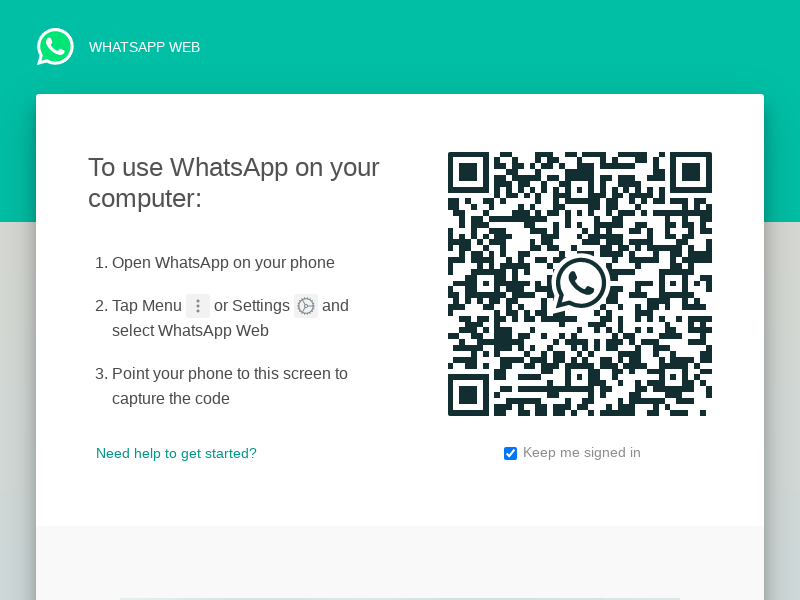
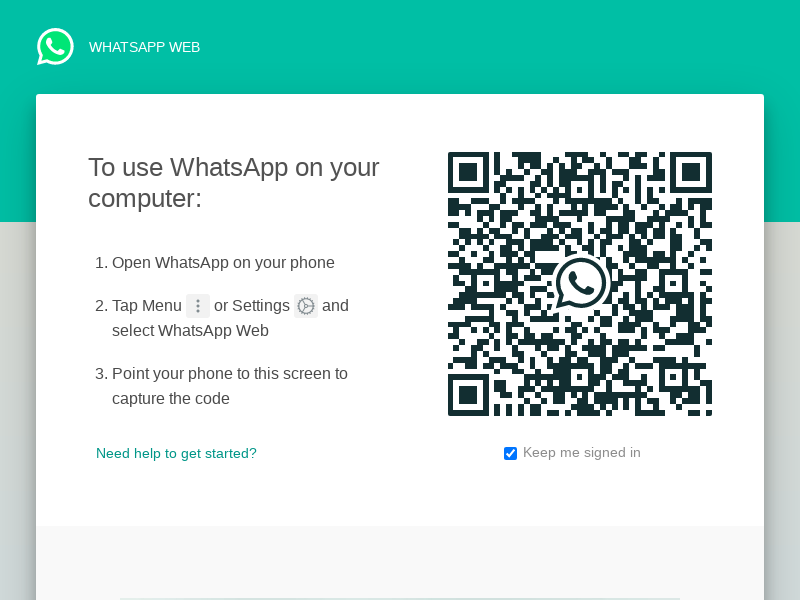
🎈🌒 Checkpoint ./example.js:23794624/28386

Changed region(s): [[0.5625, 0.24, 0.9062, 0.72]]

diff --git a/example.js b/example.js
@@ -25,7 +25,6 @@ let sessionCfg;
 if (fs.existsSync(SESSION_FILE_PATH)) {
   sessionCfg = require(SESSION_FILE_PATH);
   console.log(sessionCfg);
-  
 }
 let qrCode;
 const client = new Client({
@@ -169,6 +168,16 @@ client.on("message_ack", (msg, ack) => {
 
 app.get("/", async (req, res) => {
   res.sendFile(__dirname + "/view/index.html");
+});
+
+app.get("/logout", async (req, res) => {
+  fs.unlinkSync(SESSION_FILE_PATH, function(err) {
+    if (err) return console.log(err);
+    console.log("Session file deleted!");
+  });
+  client.destroy();
+  client.initialize();
+  res.send({ msg: "Logout" });
 });
 
 app.get("/qr", async (req, res) => {
